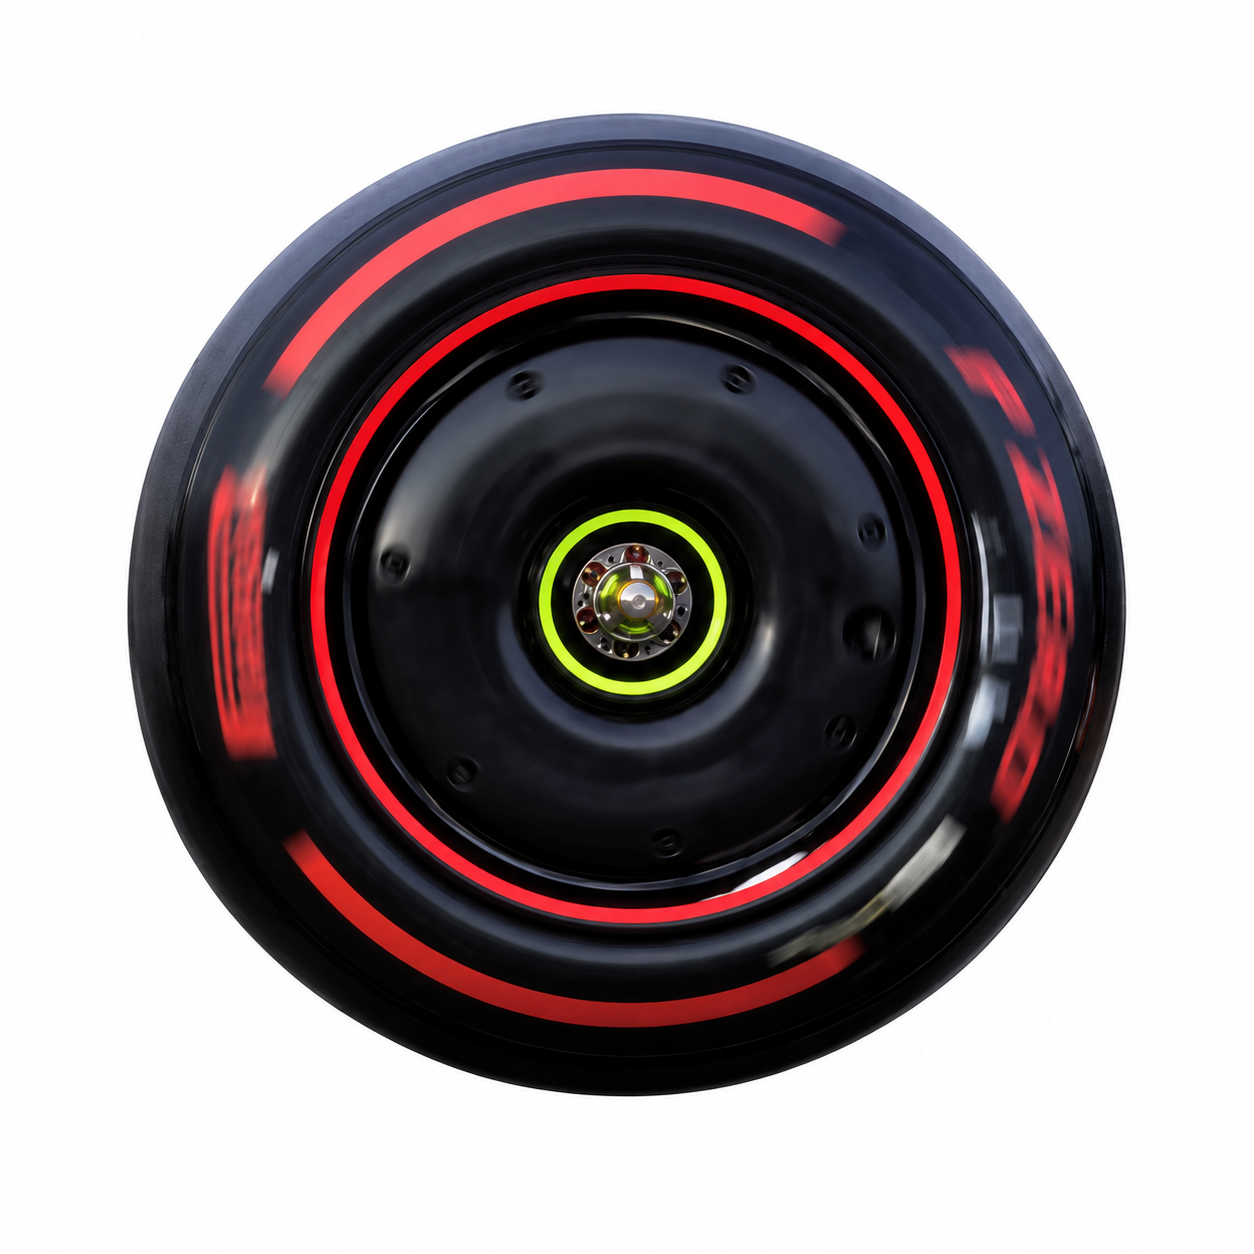
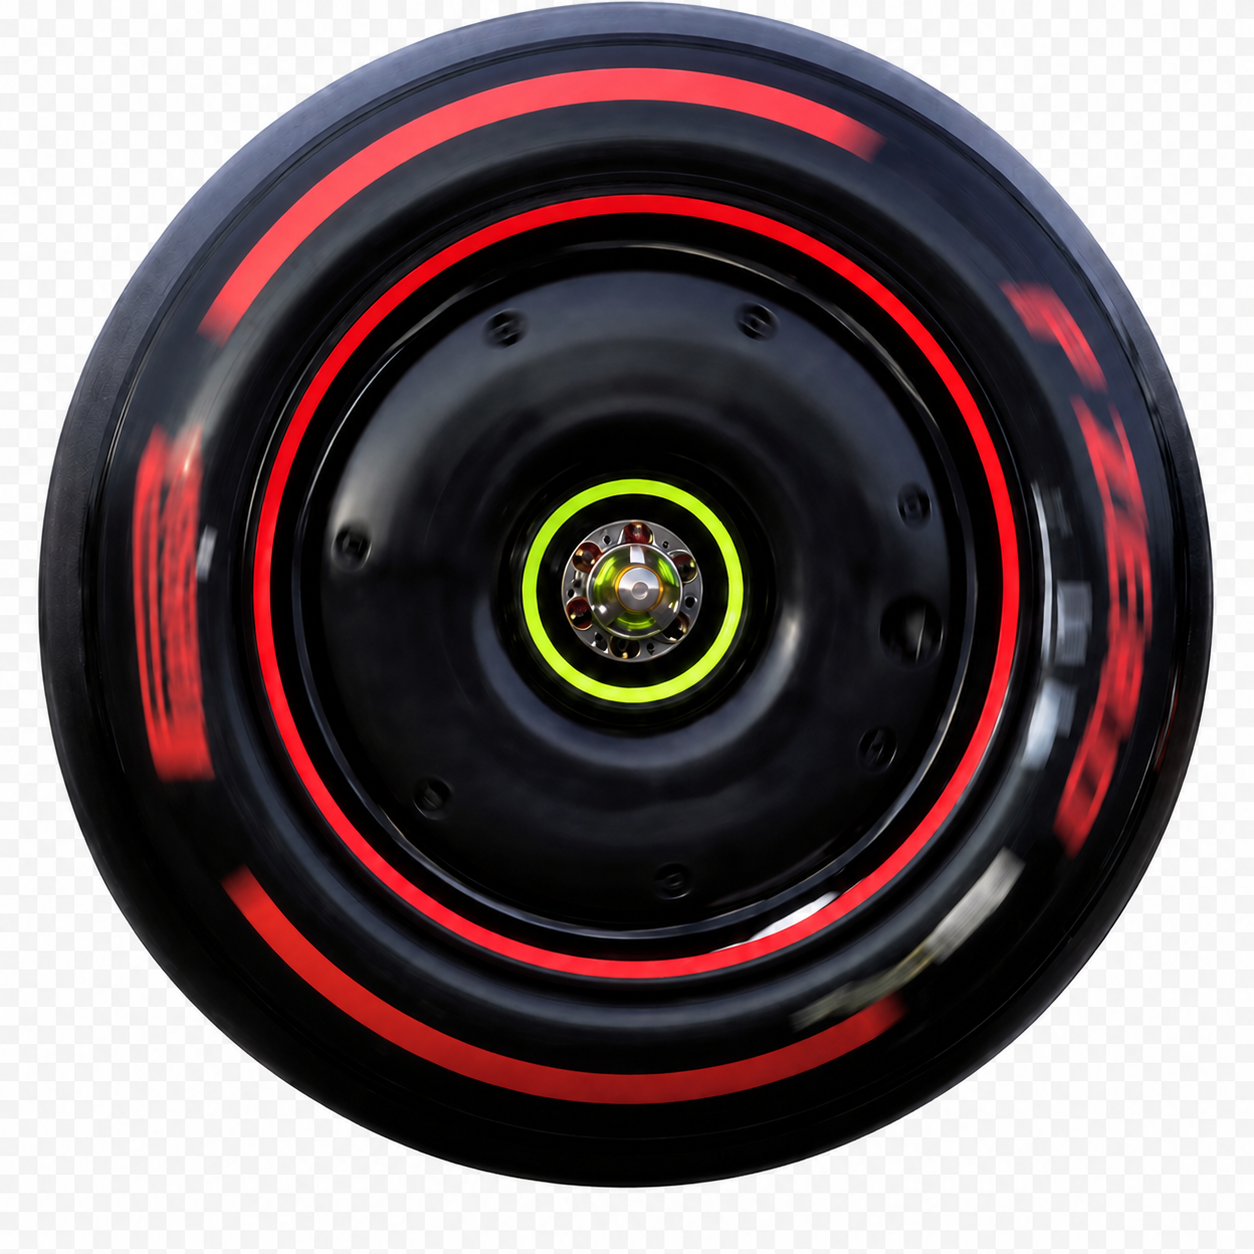
Edited wheel photo

diff --git a/app/globals.css b/app/globals.css
@@ -1362,8 +1362,37 @@ button { font: inherit; cursor: pointer; }
   0%, 100% { background-position: 0% 50%; }
   50%      { background-position: 100% 50%; }
 }
+/* Cool platinum / polished silver — same sweep treatment as gold. */
+.v2-work-metric-v--platinum {
+  background: linear-gradient(
+    115deg,
+    #1e2433 0%,
+    #4a5569 16%,
+    #8b98ae 30%,
+    #e8eef8 40%,
+    #ffffff 44%,
+    #dce4f0 50%,
+    #9aaaba 62%,
+    #5c677d 78%,
+    #2a3142 100%
+  );
+  background-size: 220% 100%;
+  background-position: 0% 50%;
+  -webkit-background-clip: text;
+  background-clip: text;
+  color: transparent;
+  -webkit-text-fill-color: transparent;
+  filter: drop-shadow(0 1px 0 rgba(20, 28, 44, 0.75))
+    drop-shadow(0 0 14px rgba(180, 210, 255, 0.42));
+  animation: platinumShine 3.6s ease-in-out infinite;
+}
+@keyframes platinumShine {
+  0%, 100% { background-position: 0% 50%; }
+  50%      { background-position: 100% 50%; }
+}
 @media (prefers-reduced-motion: reduce) {
   .v2-work-metric-v--gold { animation: none; background-position: 50% 50%; }
+  .v2-work-metric-v--platinum { animation: none; background-position: 50% 50%; }
 }
 
 /* Project media block */

diff --git a/components/sections/Projects.tsx b/components/sections/Projects.tsx
@@ -19,7 +19,7 @@ type Project = {
   dates: string;
   summary: string;
   impact: string;
-  metrics: { value: string; label: string; tone?: "gold" }[];
+  metrics: { value: string; label: string; tone?: "gold" | "platinum" }[];
   award?: { label: string; detail: string };
   brand?: {
     label: string;
@@ -292,9 +292,13 @@ export function Projects() {
             {active.metrics.map((metric) => (
               <div key={metric.label} className="v2-work-metric">
                 <span
-                  className={`v2-work-metric-v ${
-                    metric.tone === "gold" ? "v2-work-metric-v--gold" : ""
-                  }`}
+                  className={[
+                    "v2-work-metric-v",
+                    metric.tone === "gold" && "v2-work-metric-v--gold",
+                    metric.tone === "platinum" && "v2-work-metric-v--platinum",
+                  ]
+                    .filter(Boolean)
+                    .join(" ")}
                 >
                   {metric.value}
                 </span>